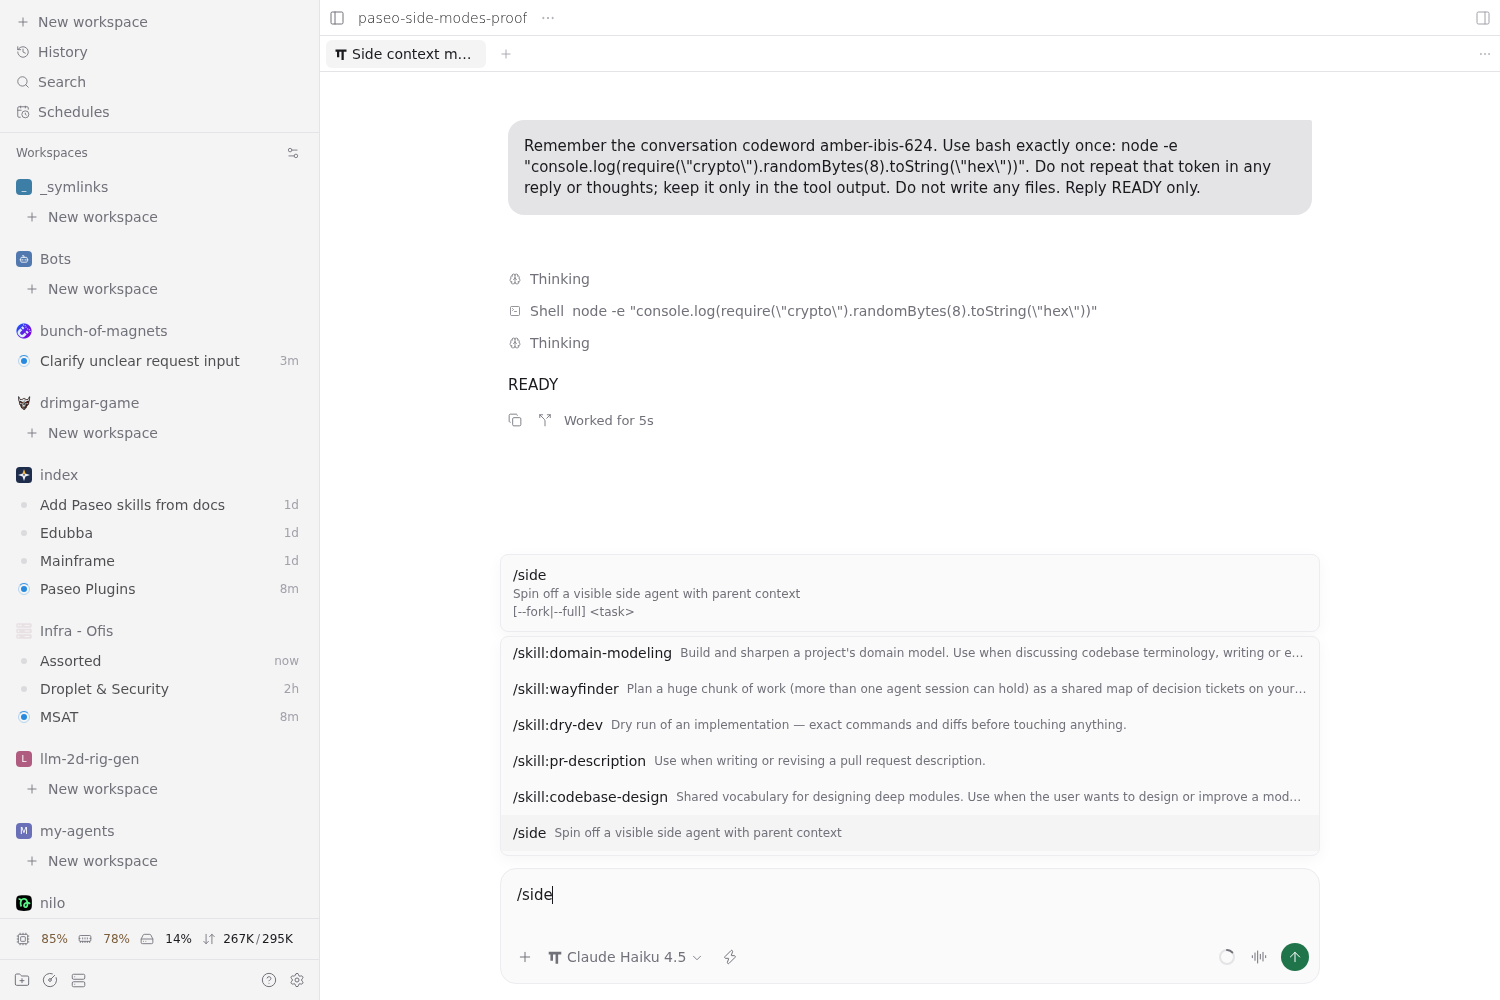
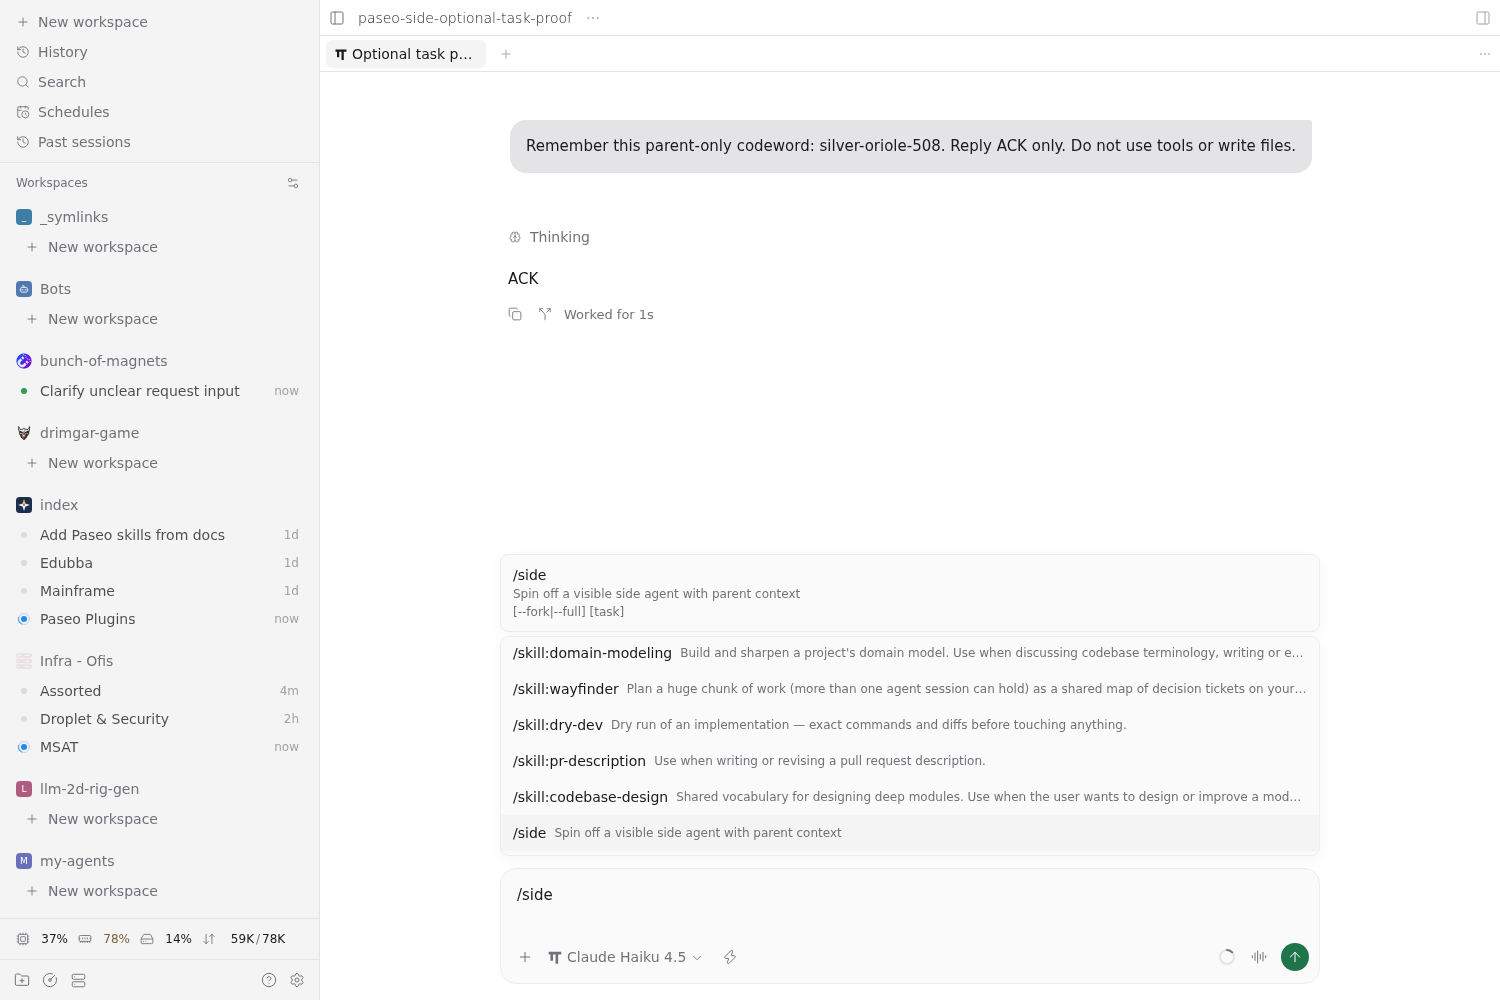
paseo-plugins: side-agent task is optional

diff --git a/paseo-plugins/side-agent/index.server.ts b/paseo-plugins/side-agent/index.server.ts
@@ -13,8 +13,10 @@ export default function contribute(server: PluginServerContext) {
     if (!result || result.agent.archivedAt) throw new Error("The parent agent is no longer available.");
     const parent = result.agent;
     const featureValues = Object.fromEntries((parent.features ?? []).map(feature => [feature.id, feature.value]));
-    const title = `Side: ${task.replace(/\s+/g, " ").slice(0, 64)}`;
-    const prompt = `You are a side agent forked from Paseo chat ${parent.id}. The preceding conversation or attached chat history belongs to the parent; earlier tasks are not yours. Work only on the task below and report concisely.\n\nTask:\n${task}`;
+    const title = `Side: ${(task || parent.title?.trim() || "Untitled chat").replace(/\s+/g, " ").slice(0, 64)}`;
+    const prompt = task
+      ? `You are a side agent forked from Paseo chat ${parent.id}. The preceding conversation or attached chat history belongs to the parent; earlier tasks are not yours. Work only on the task below and report concisely.\n\nTask:\n${task}`
+      : `You are a side agent forked from Paseo chat ${parent.id}. The attached chat history belongs to the parent. Wait for the user's instructions; reply only: Ready.`;
     const daemon = await connectLocalDaemon();
     let sessionCopy: string | undefined;
     let importedId: string | undefined;
@@ -54,7 +56,7 @@ export default function contribute(server: PluginServerContext) {
         modelId: parent.model, thinkingOptionId: parent.thinkingOptionId ?? null,
         ...(parent.currentModeId ? { modeId: parent.currentModeId } : {}), featureValues,
       });
-      await daemon.sendAgentMessage(child.id, prompt);
+      if (task) await daemon.sendAgentMessage(child.id, prompt);
       return { agentId: child.id, mode };
     } catch (error) {
       // A failed full-mode launch must not leave an active half-configured child.

diff --git a/paseo-plugins/side-agent/index.client.tsx b/paseo-plugins/side-agent/index.client.tsx
@@ -20,14 +20,13 @@ export default function contribute(client: PluginClientContext) {
   const command = {
     name: "/side",
     description: "Spin off a visible side agent with parent context",
-    argumentHint: "[--fork|--full] <task>",
+    argumentHint: "[--fork|--full] [task]",
     context: "agent" as const,
     async onSubmit({ args, agent, rpc, openScreen }: PluginAgentCommandContext & { args: string }) {
       const input = args.trim();
       const flag = input.match(/^--(fork|full)(?:\s+|$)/);
       const mode = flag ? (flag[1] === "fork" ? "fork" : "full") : undefined;
       const task = flag ? input.slice(flag[0].length).trim() : input;
-      if (!task) throw new Error("Usage: /side [--fork|--full] <task>");
       const sourcePane = Platform.OS === "web" ? capturePane(agent.id) : null;
       const child = await rpc(createSide, { parentId: agent.id, task, mode });
       if (Platform.OS === "web") {

diff --git a/paseo-plugins/side-agent/shared/preferences.ts b/paseo-plugins/side-agent/shared/preferences.ts
@@ -11,6 +11,6 @@ export const preferences = defineSettings({
 
 export const createSide = defineRpc({
   name: "create-side",
-  input: z.object({ parentId: z.string().min(1), task: z.string().trim().min(1), mode: modeSchema.optional() }),
+  input: z.object({ parentId: z.string().min(1), task: z.string().trim().default(""), mode: modeSchema.optional() }),
   output: z.object({ agentId: z.string(), mode: modeSchema }),
 });

diff --git a/paseo-plugins/side-agent/OVERVIEW.md b/paseo-plugins/side-agent/OVERVIEW.md
@@ -3,12 +3,14 @@
 Create a visible child of the current Paseo agent:
 
 ```text
-/side <task>          use the configured default (initially fork)
-/side --fork <task>   force curated Paseo chat history
-/side --full <task>   force complete OMP memory through the last completed turn
+/side [task]          use the configured default (initially fork)
+/side --fork [task]   force curated Paseo chat history
+/side --full [task]   force complete OMP memory through the last completed turn
 ```
 
-An existing agent and a non-empty task are required. The child gets the parent's
+An existing agent is required; the task is optional. Without a task, the title is
+`Side: <parent title>` (shortened). With a task, the title uses its first words.
+The child gets the parent's
 provider/model, mode, thinking option, feature values, and working directory.
 It appears in the parent's sub-agents strip. Shared cwd means shared files, not
 an isolated worktree. **No finish message is sent into the parent:** check the
@@ -22,8 +24,11 @@ The old session-file-pointer prompt mode has been removed entirely.
 
 This is Paseo's own **Fork in a new tab** context: the server calls the installed
 SDK's `buildAgentForkContext(parentId)` and attaches its text attachment with
-`contextKind: "chat_history"` to `agents.create({ attachments })`. The initial
-prompt is only a short parent/side-task note plus your task.
+`contextKind: "chat_history"` to `agents.create({ attachments })`. With a task,
+the initial prompt is a short parent/side-task note plus your task. Without one,
+the attachment rides on this note: “You are a side agent forked from Paseo chat
+<id>. The attached chat history belongs to the parent. Wait for the user's
+instructions; reply only: Ready.” The child acknowledges, then waits for you.
 
 The attachment contains curated user/assistant messages and tool-call summaries,
 not raw tool outputs, private reasoning, or native provider session state. It is
@@ -50,9 +55,11 @@ artifacts are refused. Absolute paths embedded in historical text are not
 rewritten; existing OMP compaction is not undone.
 
 Paseo imports the copied file as a new OMP agent with the
-`paseo.parent-agent-id` label, applies the parent's current runtime settings,
-and sends the side-task note plus task. The parent is never resumed or written
-by this operation. Full mode inherits native conversation/tool-output memory,
+`paseo.parent-agent-id` label and applies the parent's current runtime settings.
+With a task, it sends the existing side-task note plus task. **Without a task it
+sends nothing at all**: the imported child opens idle with no new conversation
+turn, ready for you to type first. The parent is never resumed or written by this
+operation. Full mode inherits native conversation/tool-output memory,
 not just a transcript attachment; long histories can be slower and more costly.
 Earlier parent instructions are also inherited and can affect the child's reply.
 
@@ -139,6 +146,22 @@ Screenshots in `screenshots/` replace the old file-pointer-mode evidence:
   slept; the child recalls both facts without inheriting/running the sleep.
 - `modes-child-parentage-strip.png`: the parent's strip lists its children.
 - `default-mode-settings.png`: persisted default restored to fork.
+- `no-task-fork-ready.png`: `/side` creates a parent-titled child which replies
+  Ready, using the attached chat history.
+- `no-task-fork-followup.png`: that child then recalls a parent-only codeword
+  without tools.
+- `no-task-full-idle.png`: `/side --full` opens an idle imported child without
+  adding a user message or starting a new turn.
+- `no-task-full-followup.png`: the idle child's first follow-up recalls the
+  parent-only codeword without tools.
+
+Optional-task regression testing also used OMP Claude Haiku 4.5. Bare `/side`
+and `/side --fork` acknowledged with `Ready.`. Before its first follow-up, the
+taskless full child was `idle`, had `LastUsage: null`, and contained zero new
+conversation messages beyond the parent's copied history. Both taskless children
+answered `silver-oriole-508` on follow-up with zero tool calls. With-task fork and
+full checks returned `FORK_TASK_OK` and `FULL_TASK_OK`; right-pane reuse remained
+at two visible panes.
 
 The random token appeared **only in the parent's tool output**, not its user,
 assistant, or reasoning messages. Session inspection found zero new tool calls
